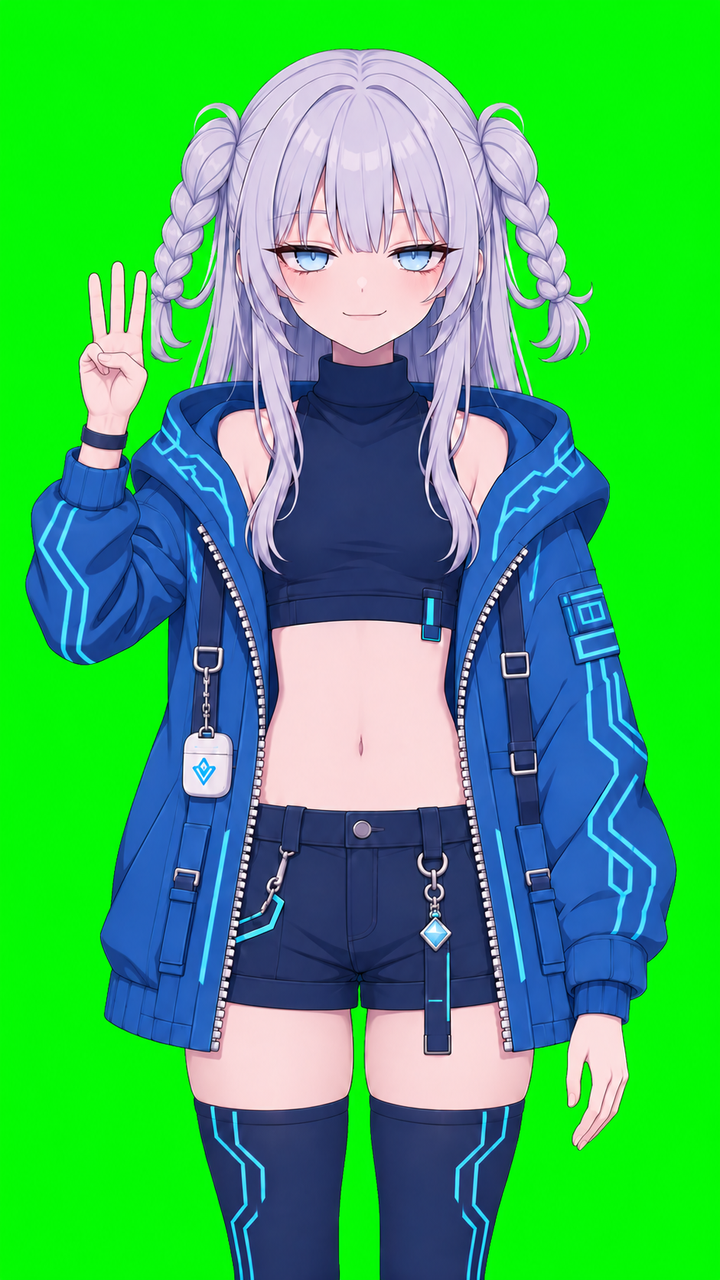
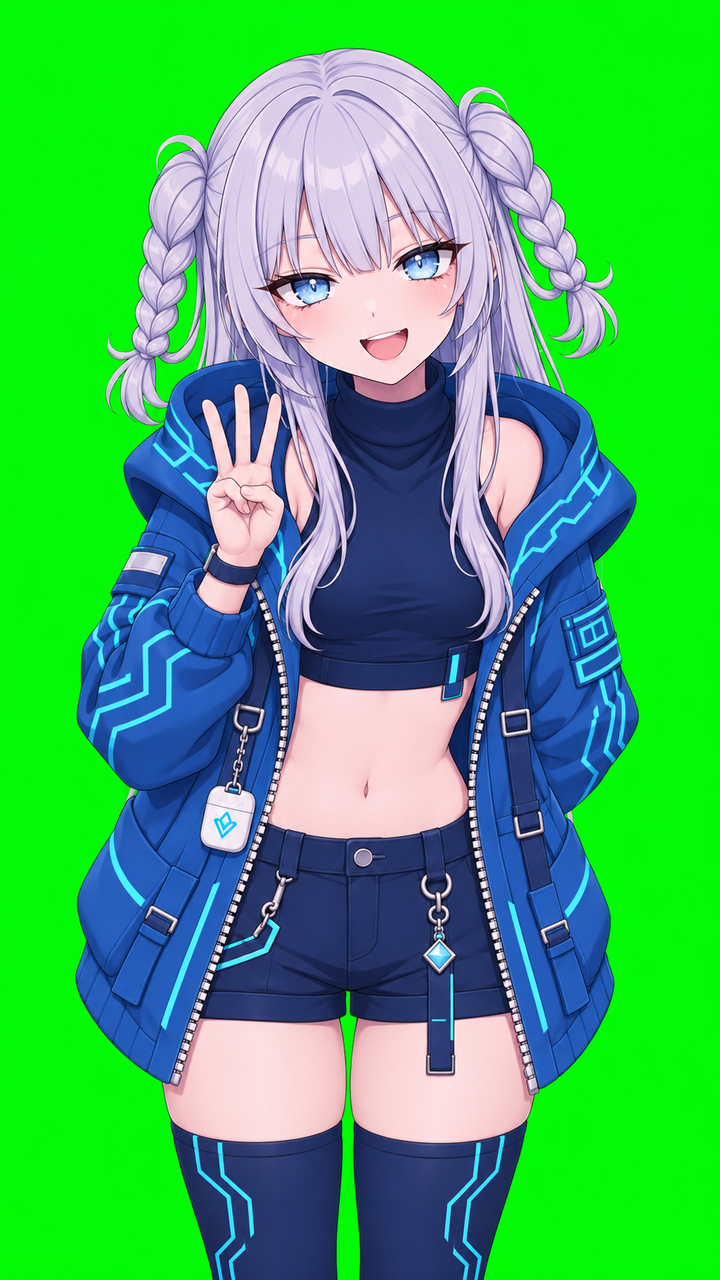
Rina finger poses: cuter style chosen by the user; intro should move from the standing pose into it
Claude-Session: https://claude.ai/code/session_01GPumfm7cRXThygBZ89PTC1

diff --git a/channel/rina_poses/README.md b/channel/rina_poses/README.md
@@ -1,4 +1,7 @@
 # りなのポーズ（口の動きの元画像、緑背景 720x1280）
 - base_green.png：ふつうに立って話す（全編・結論で使う）
-- rina_fingers_1/3/4/5.png：登場の「このニュース、◯◯でまとめます」で使う。指の本数＝1分→1、30秒→3、40秒→4、50秒→5（2026-11-08 ユーザー決定）。
-  手のひらを見せているので、スマートウォッチは手の甲側にあり、手首には黒いバンドだけが見える。
+- rina_fingers_1/3/4/5.png：登場の「このニュース、◯◯でまとめます」で使う。指の本数＝1分→1、30秒→3、40秒→4、50秒→5。
+  2026-11-09 に可愛い型へ描き直し（ユーザーが4案から選んだ型）：少し前かがみ・首をかしげる・口を開けた笑顔・左手は背中・右手は胸の前で指を立てる。
+  手のひらを見せているので、時計は手の甲側（手首の内側には黒いバンドだけ）。
+- 動き（ユーザー指示 2026-11-09）：「このニュース、」はいつもの立ち絵（base_green）で話し、そこから指のポーズへ動いて、「1分／◯秒」と言う瞬間に指のポーズになっているようにする。
+  作り方：セリフを「このニュース、」と「◯◯でまとめます」に分けて、前半は base_green、後半は指のポーズで口の動きを作る。間の読点の間（0.2〜0.3秒）に、前半の最後のコマと後半の最初のコマのあいだを動きのコマ（フレーム補間）でつなぐ。
